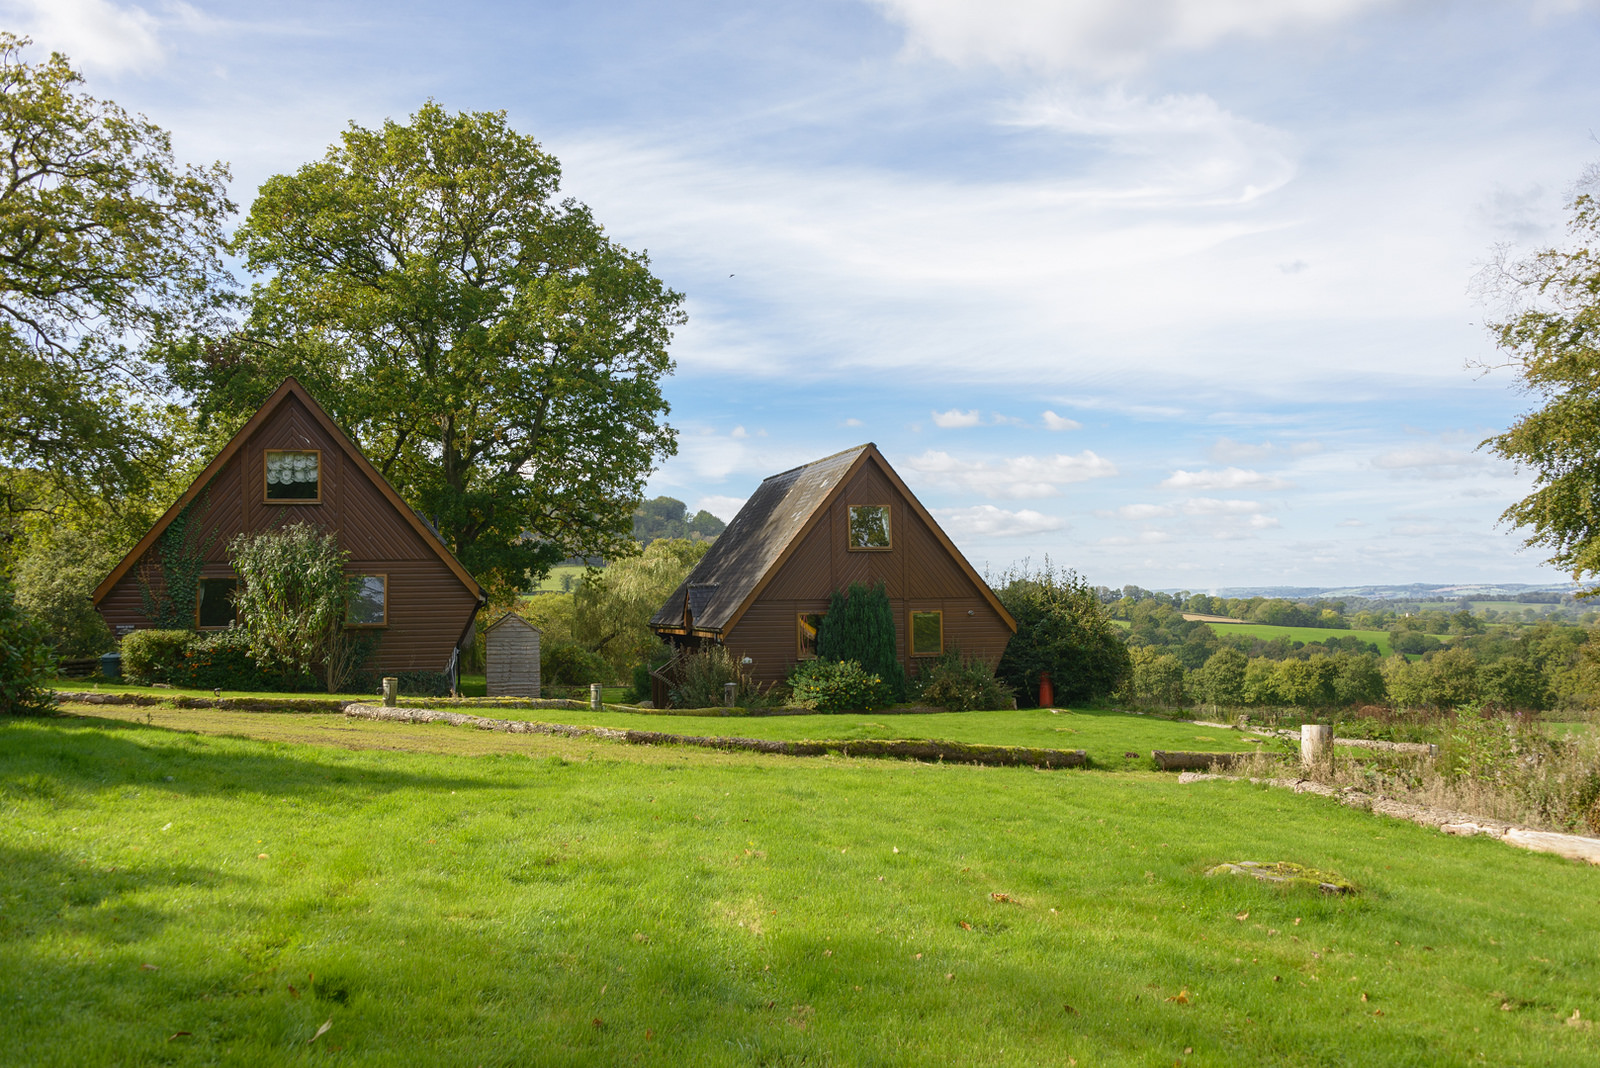
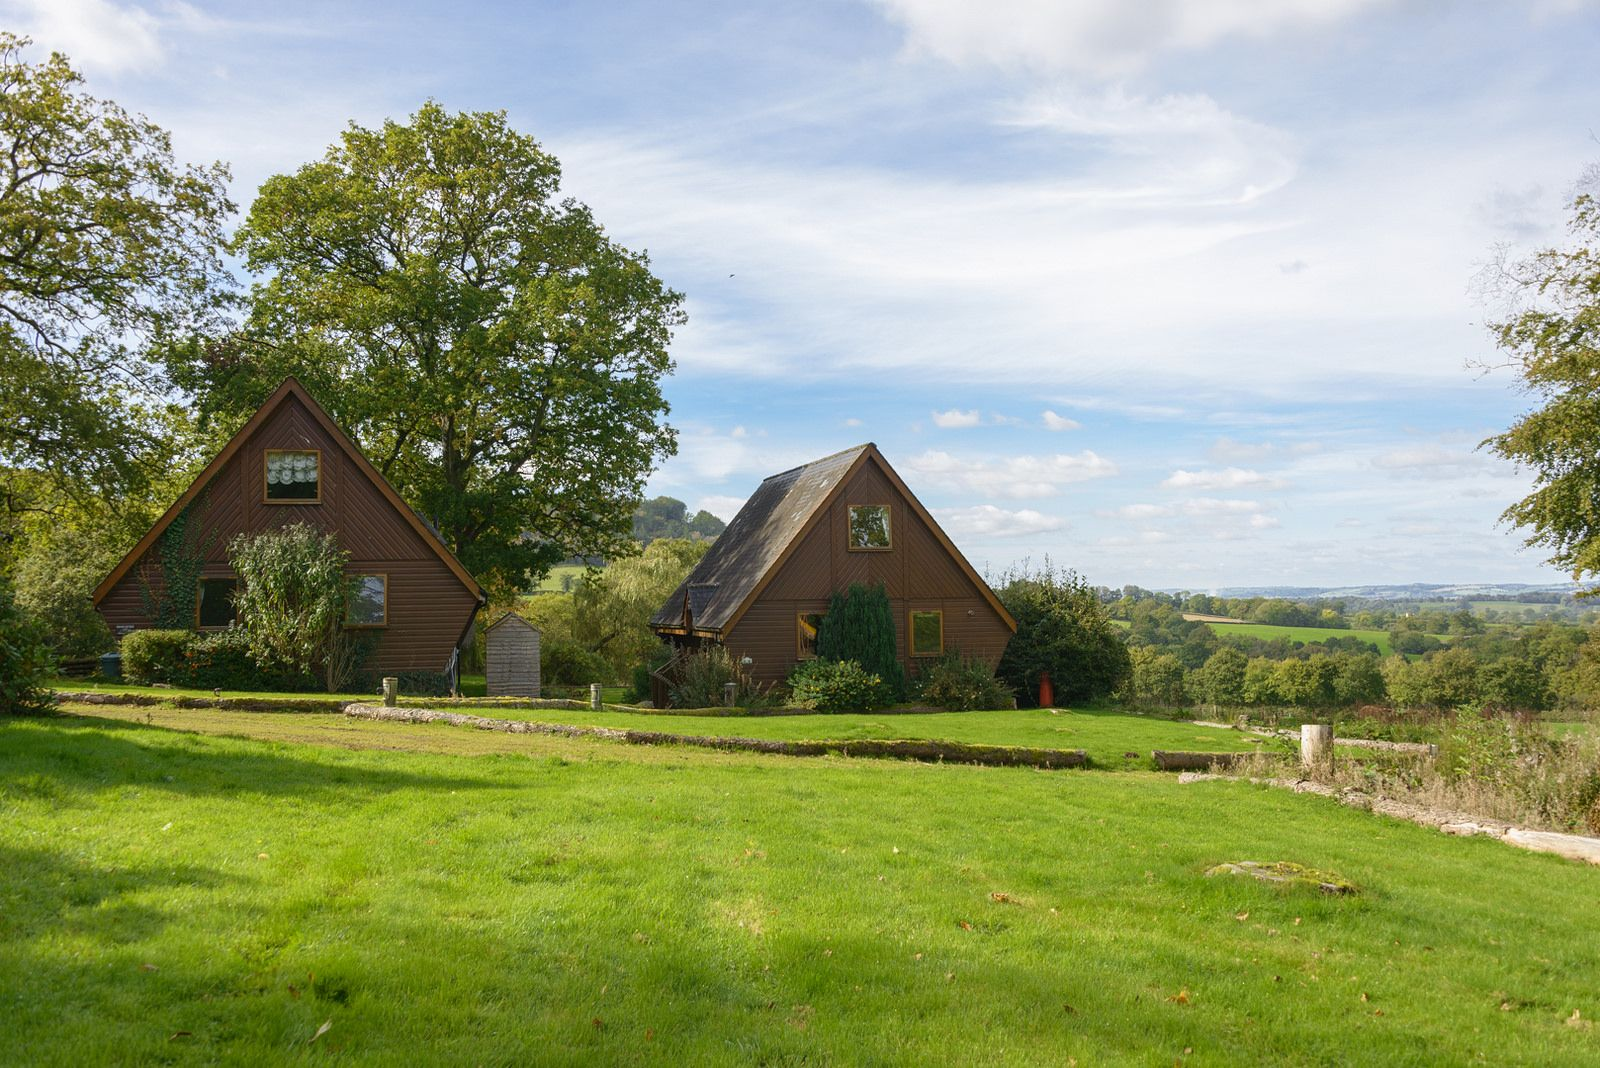
Replace images with compressed images

diff --git a/README.md b/README.md
@@ -13,6 +13,8 @@ This website has been created using:
 
 >**JSON** is used to store data about the lodges held on the site at South Combe Waters. This simulates a server API response sending data from a database, and is consumed by the JavaScript to output the data on relevant pages on the website.
 
+Images have been compressed using compressor.io to aid in faster webpage load times
+
 ### Anticipated Visitor Flow
 * Use lands on index.html
 * User clicks learn more then 'view our lodges'
